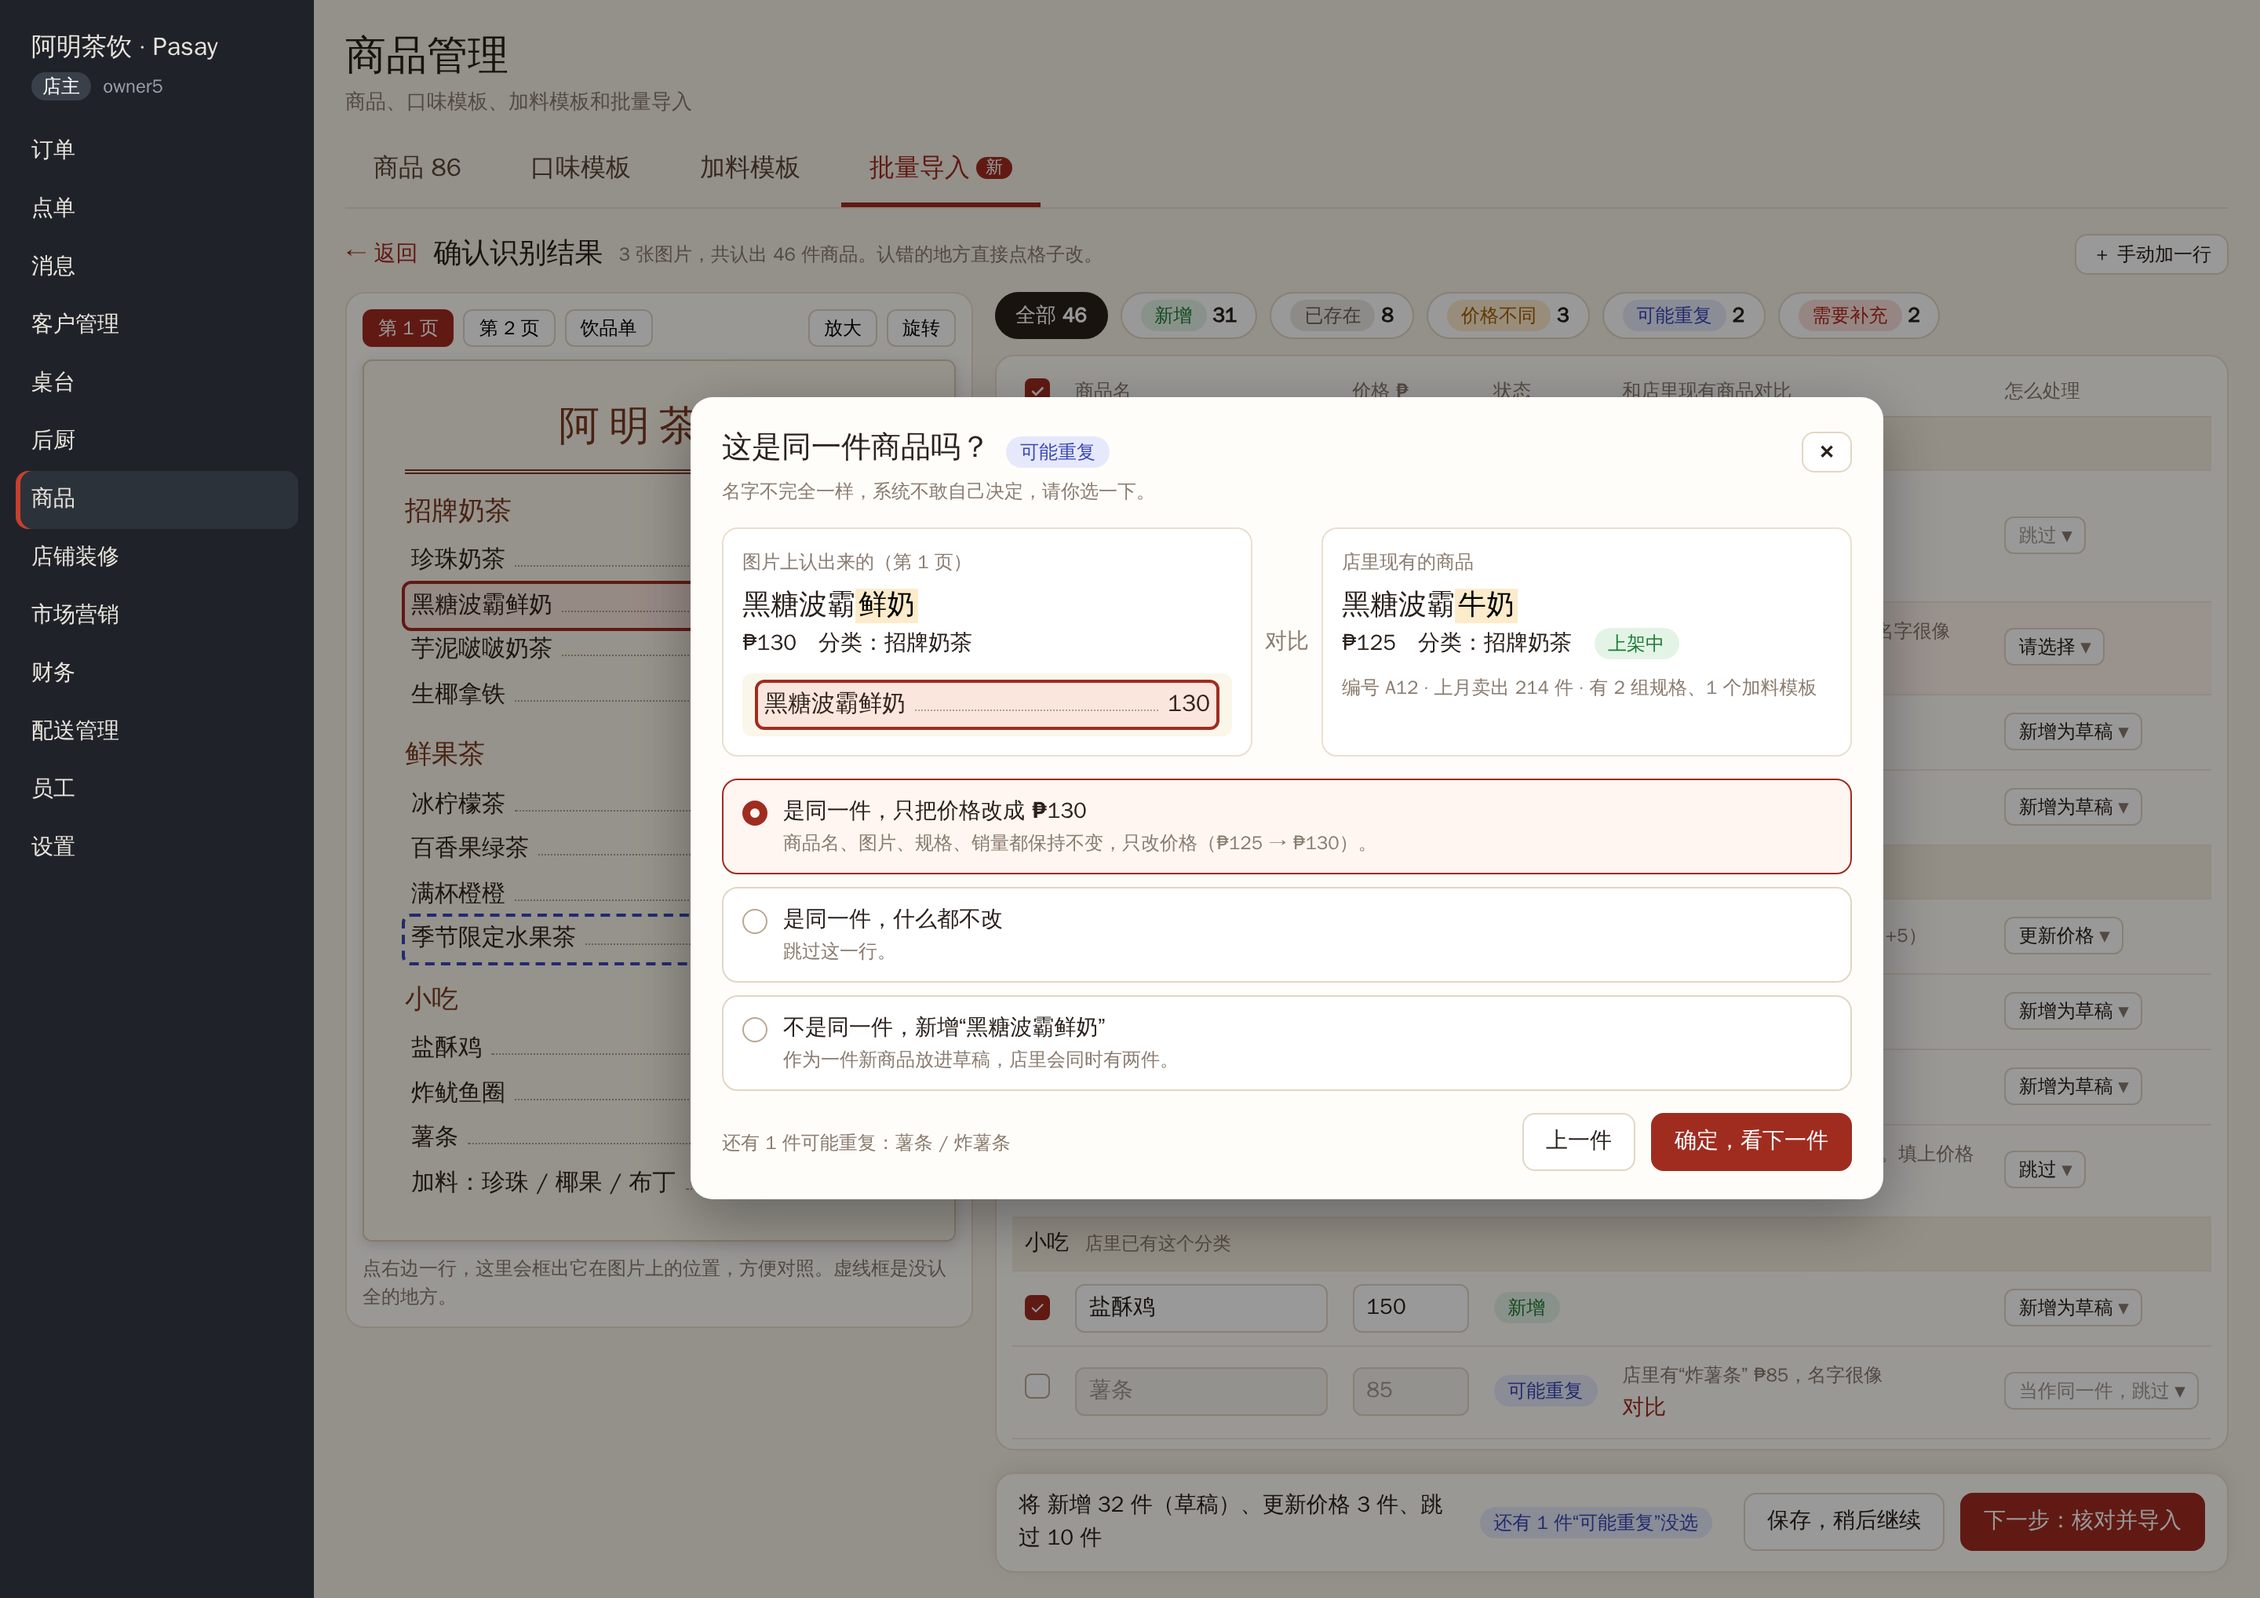
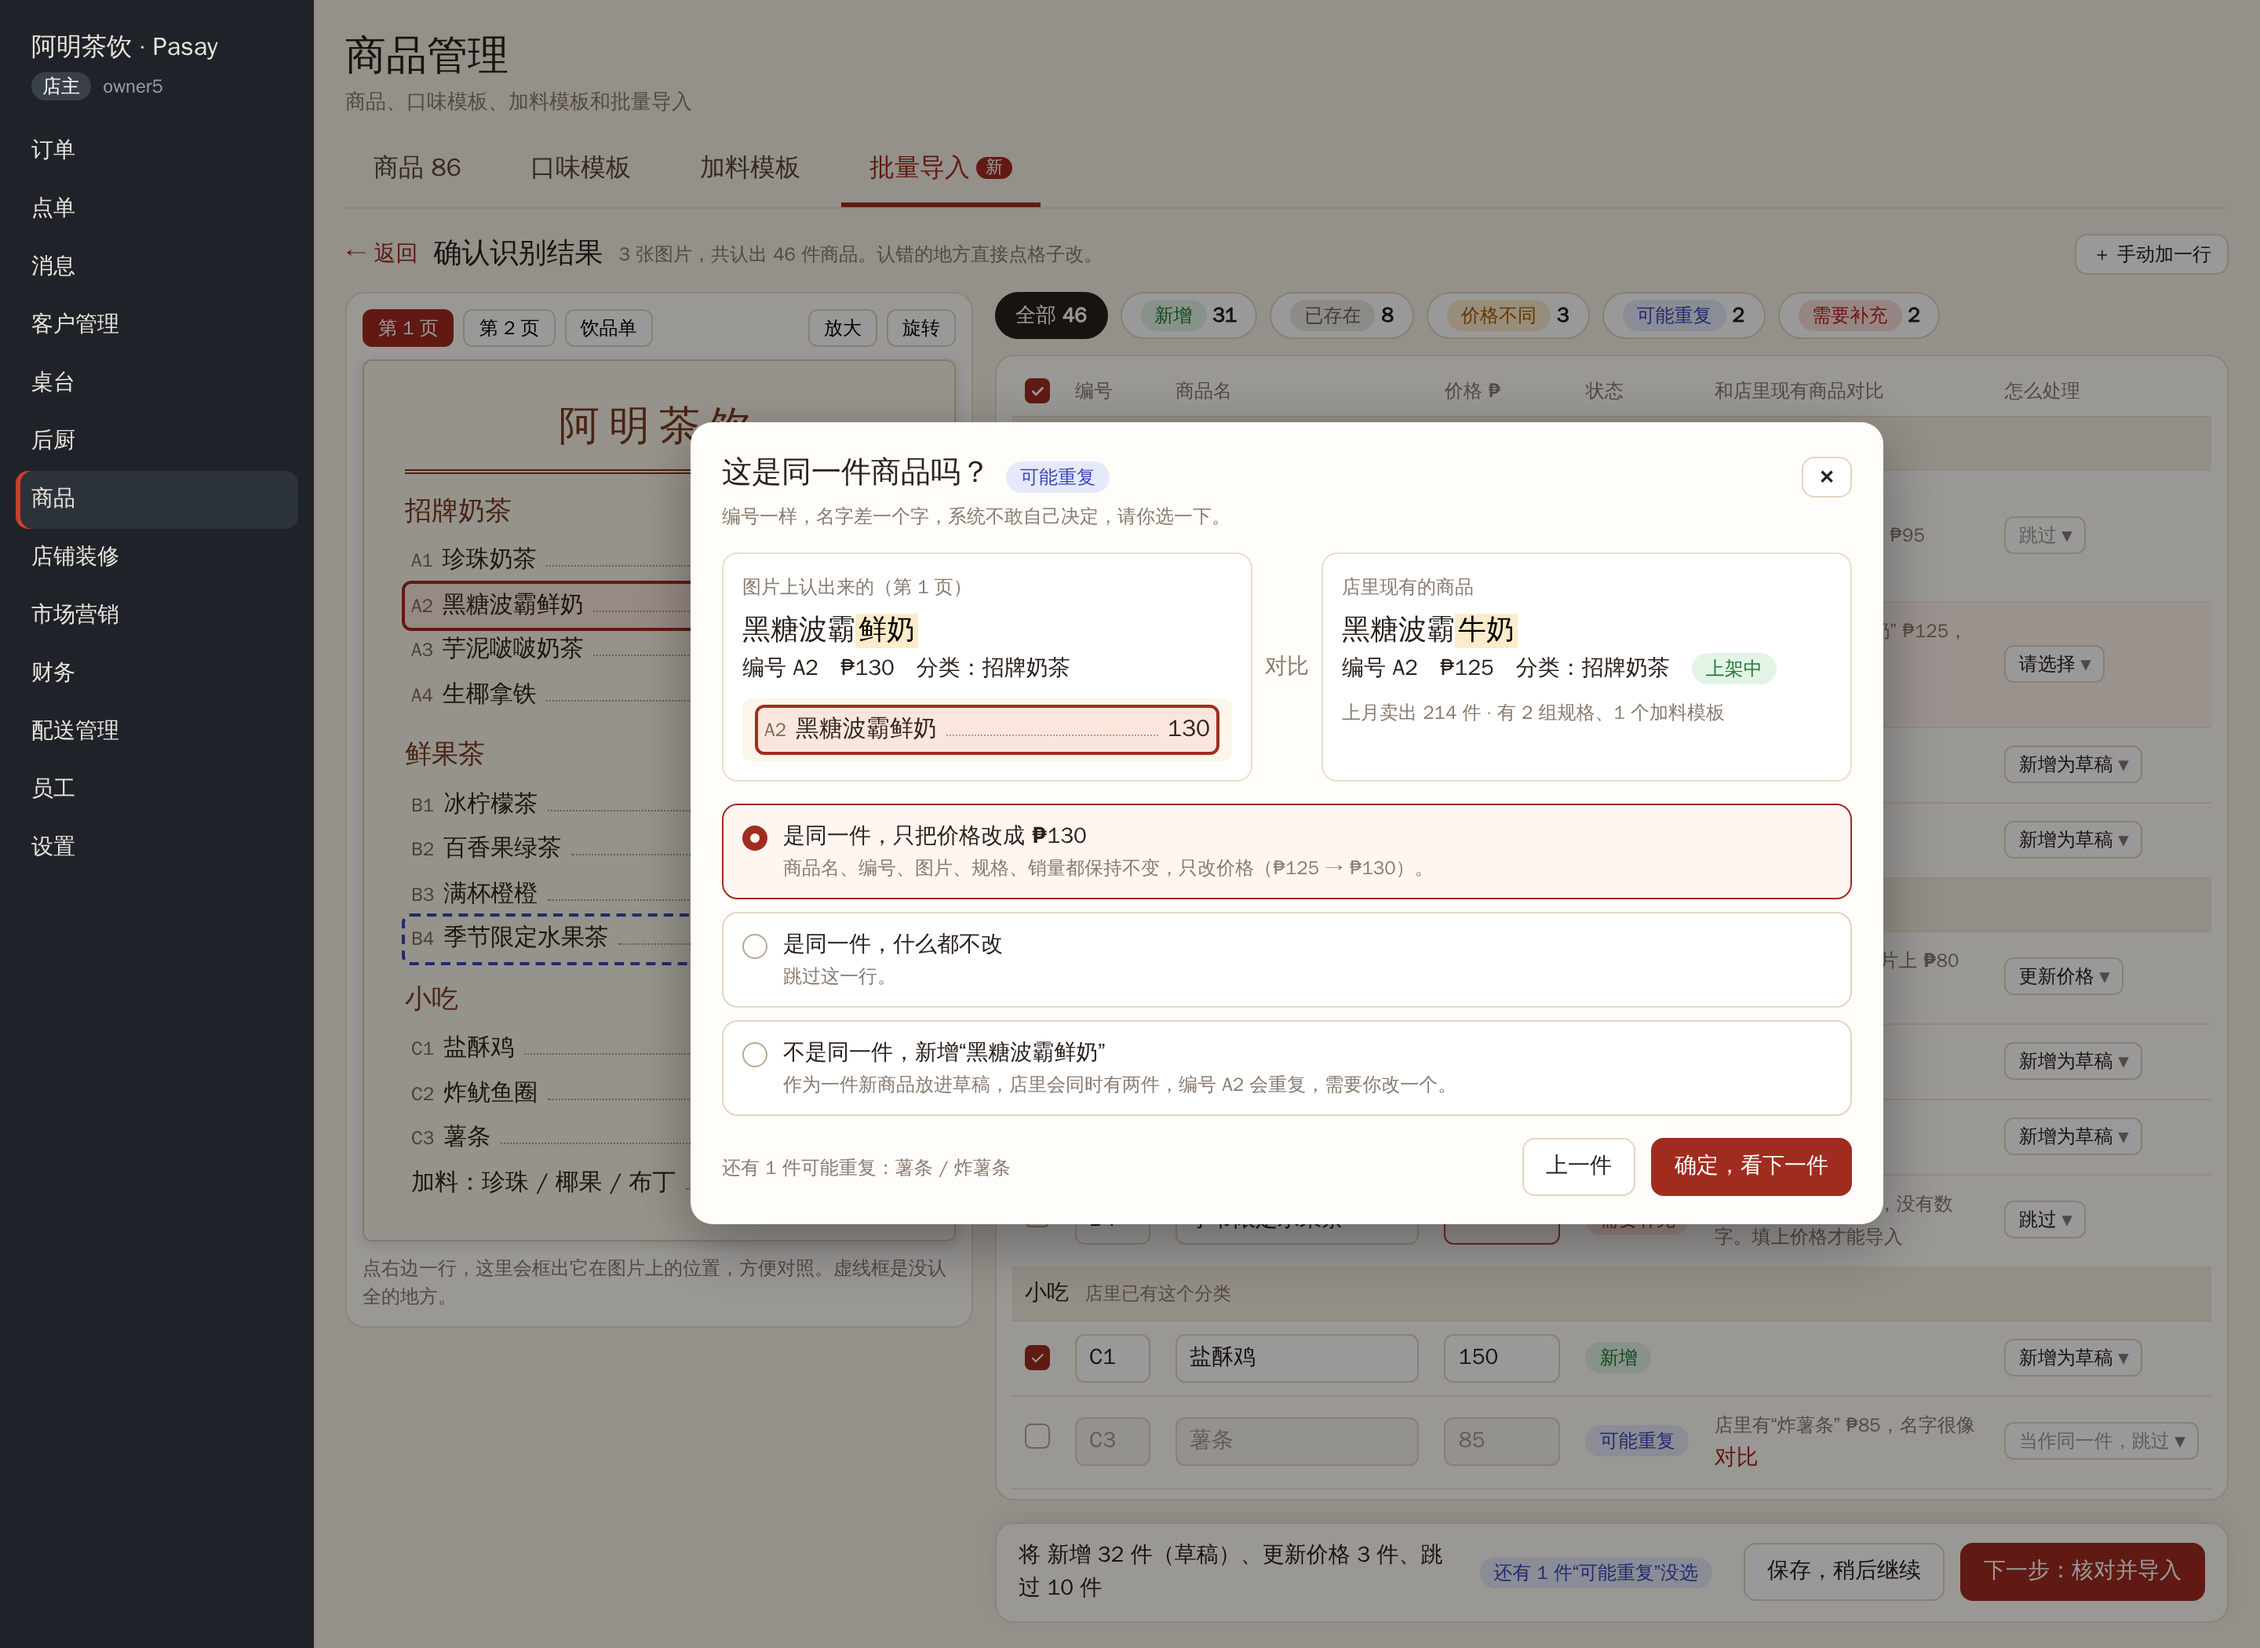
图片识别导入方案 v0.2：带编号的价目表
补第 5.5 节：编号一起识别并写进商品编号，编号参与重复检测（编号冲突、
编号不同），两列价格、分类通用说明、非商品内容的处理；确认页加编号一列；
新增 Q15、Q16。

Claude-Session: https://claude.ai/code/session_0171QGWJiqoUpVjSYT3sSzwc

diff --git a/docs/menu-image-import-prototype/index.html b/docs/menu-image-import-prototype/index.html
@@ -24,19 +24,19 @@ const CAM = '<svg viewBox="0 0 24 24" fill="none" stroke="currentColor" stroke-w
 // 一张假的纸质价目表
 const paper = (hl = '') => `<div class="paper"><div class="t">阿明茶饮</div>
 <div class="c">招牌奶茶</div>
-<div class="l"><span>珍珠奶茶</span><i></i><small>中</small><b>95</b><small>大</small><b>110</b></div>
-<div class="l ${hl === 'maybe' ? 'hl' : ''}"><span>黑糖波霸鲜奶</span><i></i><b>130</b></div>
-<div class="l"><span>芋泥啵啵奶茶</span><i></i><b>125</b></div>
-<div class="l"><span>生椰拿铁</span><i></i><b>135</b></div>
+<div class="l"><small>A1</small><span>珍珠奶茶</span><i></i><small>中</small><b>95</b><small>大</small><b>110</b></div>
+<div class="l ${hl === 'maybe' ? 'hl' : ''}"><small>A2</small><span>黑糖波霸鲜奶</span><i></i><b>130</b></div>
+<div class="l"><small>A3</small><span>芋泥啵啵奶茶</span><i></i><b>125</b></div>
+<div class="l"><small>A4</small><span>生椰拿铁</span><i></i><b>135</b></div>
 <div class="c">鲜果茶</div>
-<div class="l ${hl === 'price' ? 'hl' : ''}"><span>冰柠檬茶</span><i></i><b>80</b></div>
-<div class="l"><span>百香果绿茶</span><i></i><b>90</b></div>
-<div class="l"><span>满杯橙橙</span><i></i><b>120</b></div>
-<div class="l h2"><span>季节限定水果茶</span><i></i><b class="hand">时价</b></div>
+<div class="l ${hl === 'price' ? 'hl' : ''}"><small>B1</small><span>冰柠檬茶</span><i></i><b>80</b></div>
+<div class="l"><small>B2</small><span>百香果绿茶</span><i></i><b>90</b></div>
+<div class="l"><small>B3</small><span>满杯橙橙</span><i></i><b>120</b></div>
+<div class="l h2"><small>B4</small><span>季节限定水果茶</span><i></i><b class="hand">时价</b></div>
 <div class="c">小吃</div>
-<div class="l"><span>盐酥鸡</span><i></i><b>150</b></div>
-<div class="l"><span>炸鱿鱼圈</span><i></i><b>160</b></div>
-<div class="l"><span>薯条</span><i></i><b>85</b></div>
+<div class="l"><small>C1</small><span>盐酥鸡</span><i></i><b>150</b></div>
+<div class="l"><small>C2</small><span>炸鱿鱼圈</span><i></i><b>160</b></div>
+<div class="l"><small>C3</small><span>薯条</span><i></i><b>85</b></div>
 <div class="l"><span>加料：珍珠 / 椰果 / 布丁</span><i></i><b>+15</b></div></div>`
 
 const hist = `<div class="card"><div class="row" style="margin-bottom:8px"><h2>导入记录</h2><span class="sp"></span><span class="muted">保留最近 50 次</span></div>
@@ -75,22 +75,22 @@ ${th('IMG_2292.jpg', '<span class="tag fix">看不清</span>', 'bad')}
 <div class="row" style="margin-top:14px"><span class="muted">已识别 2 张，共 33 件商品；1 张识别中，1 张排队，1 张失败</span><span class="sp"></span><button class="btn">取消本次导入</button><button class="btn pri">先确认已识别的 33 件</button></div></div>`)
 
 // 3 确认页（核心）
-const r = (o) => `<tr class="${o.cls || ''}"><td>${cb(o.on)}</td><td><div class="in ${o.nameErr ? 'err' : ''}" style="min-width:150px">${o.name}</div>${o.spec ? `<div class="spec">${o.spec}</div>` : ''}</td>
+const r = (o) => `<tr class="${o.cls || ''}"><td>${cb(o.on)}</td><td><div class="in num" style="width:48px">${o.code || ''}</div></td><td><div class="in ${o.nameErr ? 'err' : ''}" style="min-width:150px">${o.name}</div>${o.spec ? `<div class="spec">${o.spec}</div>` : ''}</td>
 <td><div class="in num ${o.err ? 'err' : ''}" style="width:74px">${o.price}</div></td><td>${tag(o.st)}</td><td>${o.info || ''}</td><td>${o.act ? `<span class="act">${o.act}</span>` : ''}</td></tr>`
-const reviewTable = `<table><tr><th style="width:30px">${cb(true)}</th><th>商品名</th><th>价格 ₱</th><th>状态</th><th>和店里现有商品对比</th><th>怎么处理</th></tr>
-<tr class="grp"><td colspan="6">招牌奶茶 <small>店里已有这个分类</small></td></tr>
-${r({ name: '珍珠奶茶', price: '95', st: 'same', spec: '规格（必选）：中 +0 / 大 +15', info: '<span class="was">店里已有，价格一样 ₱95</span>', act: '跳过', cls: 'off' })}
-${r({ on: 1, name: '黑糖波霸鲜奶', price: '130', st: 'maybe', info: '<span class="was">店里有“<b>黑糖波霸牛奶</b>” ₱125，名字很像</span><br><a>对比</a>', act: '请选择', cls: 'sel' })}
-${r({ on: 1, name: '芋泥啵啵奶茶', price: '125', st: 'new', act: '新增为草稿' })}
-${r({ on: 1, name: '生椰拿铁', price: '135', st: 'new', act: '新增为草稿' })}
-<tr class="grp"><td colspan="6">鲜果茶 <small>新分类，导入时自动新建</small></td></tr>
-${r({ on: 1, name: '冰柠檬茶', price: '80', st: 'price', info: '<span class="was">店里现在 <s>₱75</s> → 图片上 <b>₱80</b>（+5）</span>', act: '更新价格' })}
-${r({ on: 1, name: '百香果绿茶', price: '90', st: 'new', act: '新增为草稿' })}
-${r({ on: 1, name: '满杯橙橙', price: '120', st: 'new', act: '新增为草稿' })}
-${r({ name: '季节限定水果茶', price: '', err: 1, st: 'fix', info: '<span class="was">图片上写的是“时价”，没有数字。填上价格才能导入</span>', act: '跳过' })}
-<tr class="grp"><td colspan="6">小吃 <small>店里已有这个分类</small></td></tr>
-${r({ on: 1, name: '盐酥鸡', price: '150', st: 'new', act: '新增为草稿' })}
-${r({ name: '薯条', price: '85', st: 'maybe', info: '<span class="was">店里有“<b>炸薯条</b>” ₱85，名字很像</span><br><a>对比</a>', act: '当作同一件，跳过', cls: 'off' })}
+const reviewTable = `<table><tr><th style="width:30px">${cb(true)}</th><th>编号</th><th>商品名</th><th>价格 ₱</th><th>状态</th><th>和店里现有商品对比</th><th>怎么处理</th></tr>
+<tr class="grp"><td colspan="7">招牌奶茶 <small>店里已有这个分类</small></td></tr>
+${r({ code: 'A1', name: '珍珠奶茶', price: '95', st: 'same', spec: '规格（必选）：中 +0 / 大 +15', info: '<span class="was">店里已有，价格一样 ₱95</span>', act: '跳过', cls: 'off' })}
+${r({ on: 1, code: 'A2', name: '黑糖波霸鲜奶', price: '130', st: 'maybe', info: '<span class="was">店里有“<b>黑糖波霸牛奶</b>” ₱125，编号也是 <b>A2</b></span><br><a>对比</a>', act: '请选择', cls: 'sel' })}
+${r({ on: 1, code: 'A3', name: '芋泥啵啵奶茶', price: '125', st: 'new', act: '新增为草稿' })}
+${r({ on: 1, code: 'A4', name: '生椰拿铁', price: '135', st: 'new', act: '新增为草稿' })}
+<tr class="grp"><td colspan="7">鲜果茶 <small>新分类，导入时自动新建</small></td></tr>
+${r({ on: 1, code: 'B1', name: '冰柠檬茶', price: '80', st: 'price', info: '<span class="was">店里现在 <s>₱75</s> → 图片上 <b>₱80</b>（+5）</span>', act: '更新价格' })}
+${r({ on: 1, code: 'B2', name: '百香果绿茶', price: '90', st: 'new', act: '新增为草稿' })}
+${r({ on: 1, code: 'B3', name: '满杯橙橙', price: '120', st: 'new', act: '新增为草稿' })}
+${r({ code: 'B4', name: '季节限定水果茶', price: '', err: 1, st: 'fix', info: '<span class="was">图片上写的是“时价”，没有数字。填上价格才能导入</span>', act: '跳过' })}
+<tr class="grp"><td colspan="7">小吃 <small>店里已有这个分类</small></td></tr>
+${r({ on: 1, code: 'C1', name: '盐酥鸡', price: '150', st: 'new', act: '新增为草稿' })}
+${r({ code: 'C3', name: '薯条', price: '85', st: 'maybe', info: '<span class="was">店里有“<b>炸薯条</b>” ₱85，名字很像</span><br><a>对比</a>', act: '当作同一件，跳过', cls: 'off' })}
 </table>`
 const review = (extra = '') => page(`<div class="row" style="margin-bottom:10px"><a class="lnk">← 返回</a><h2 style="font-size:18px">确认识别结果</h2><span class="muted">3 张图片，共认出 46 件商品。认错的地方直接点格子改。</span><span class="sp"></span><button class="btn sm">＋ 手动加一行</button></div>
 <div class="rev"><div class="card view"><div class="pg"><button class="on">第 1 页</button><button>第 2 页</button><button>饮品单</button><span class="sp"></span><button>放大</button><button>旋转</button></div>
@@ -102,14 +102,14 @@ S[3] = () => review()
 
 // 4 可能重复：对比
 S[4] = () => review(`<div class="mask"><div class="dlg"><div class="row"><h2>这是同一件商品吗？</h2><span class="tag maybe">可能重复</span><span class="sp"></span><button class="btn sm">✕</button></div>
-<p class="muted">名字不完全一样，系统不敢自己决定，请你选一下。</p>
-<div class="cmp"><div class="box"><h3>图片上认出来的（第 1 页）</h3><div class="n">黑糖波霸<mark>鲜奶</mark></div><div>₱130　分类：招牌奶茶</div><div class="paper" style="padding:6px 10px;margin-top:8px;border-radius:6px"><div class="l hl"><span>黑糖波霸鲜奶</span><i></i><b>130</b></div></div></div>
+<p class="muted">编号一样，名字差一个字，系统不敢自己决定，请你选一下。</p>
+<div class="cmp"><div class="box"><h3>图片上认出来的（第 1 页）</h3><div class="n">黑糖波霸<mark>鲜奶</mark></div><div>编号 A2　₱130　分类：招牌奶茶</div><div class="paper" style="padding:6px 10px;margin-top:8px;border-radius:6px"><div class="l hl"><small>A2</small><span>黑糖波霸鲜奶</span><i></i><b>130</b></div></div></div>
 <div class="vs">对比</div>
-<div class="box"><h3>店里现有的商品</h3><div class="n">黑糖波霸<mark>牛奶</mark></div><div>₱125　分类：招牌奶茶　<span class="tag done">上架中</span></div><div class="muted" style="margin-top:8px">编号 A12 · 上月卖出 214 件 · 有 2 组规格、1 个加料模板</div></div></div>
+<div class="box"><h3>店里现有的商品</h3><div class="n">黑糖波霸<mark>牛奶</mark></div><div>编号 A2　₱125　分类：招牌奶茶　<span class="tag done">上架中</span></div><div class="muted" style="margin-top:8px">上月卖出 214 件 · 有 2 组规格、1 个加料模板</div></div></div>
 <div class="opts">
-<div class="opt on"><span class="rd"></span><div><b>是同一件，只把价格改成 ₱130</b><div class="muted">商品名、图片、规格、销量都保持不变，只改价格（₱125 → ₱130）。</div></div></div>
+<div class="opt on"><span class="rd"></span><div><b>是同一件，只把价格改成 ₱130</b><div class="muted">商品名、编号、图片、规格、销量都保持不变，只改价格（₱125 → ₱130）。</div></div></div>
 <div class="opt"><span class="rd"></span><div><b>是同一件，什么都不改</b><div class="muted">跳过这一行。</div></div></div>
-<div class="opt"><span class="rd"></span><div><b>不是同一件，新增“黑糖波霸鲜奶”</b><div class="muted">作为一件新商品放进草稿，店里会同时有两件。</div></div></div></div>
+<div class="opt"><span class="rd"></span><div><b>不是同一件，新增“黑糖波霸鲜奶”</b><div class="muted">作为一件新商品放进草稿，店里会同时有两件，编号 A2 会重复，需要你改一个。</div></div></div></div>
 <div class="row" style="margin-top:14px"><span class="muted">还有 1 件可能重复：薯条 / 炸薯条</span><span class="sp"></span><button class="btn">上一件</button><button class="btn pri">确定，看下一件</button></div></div></div>`)
 
 // 5 导入前核对
